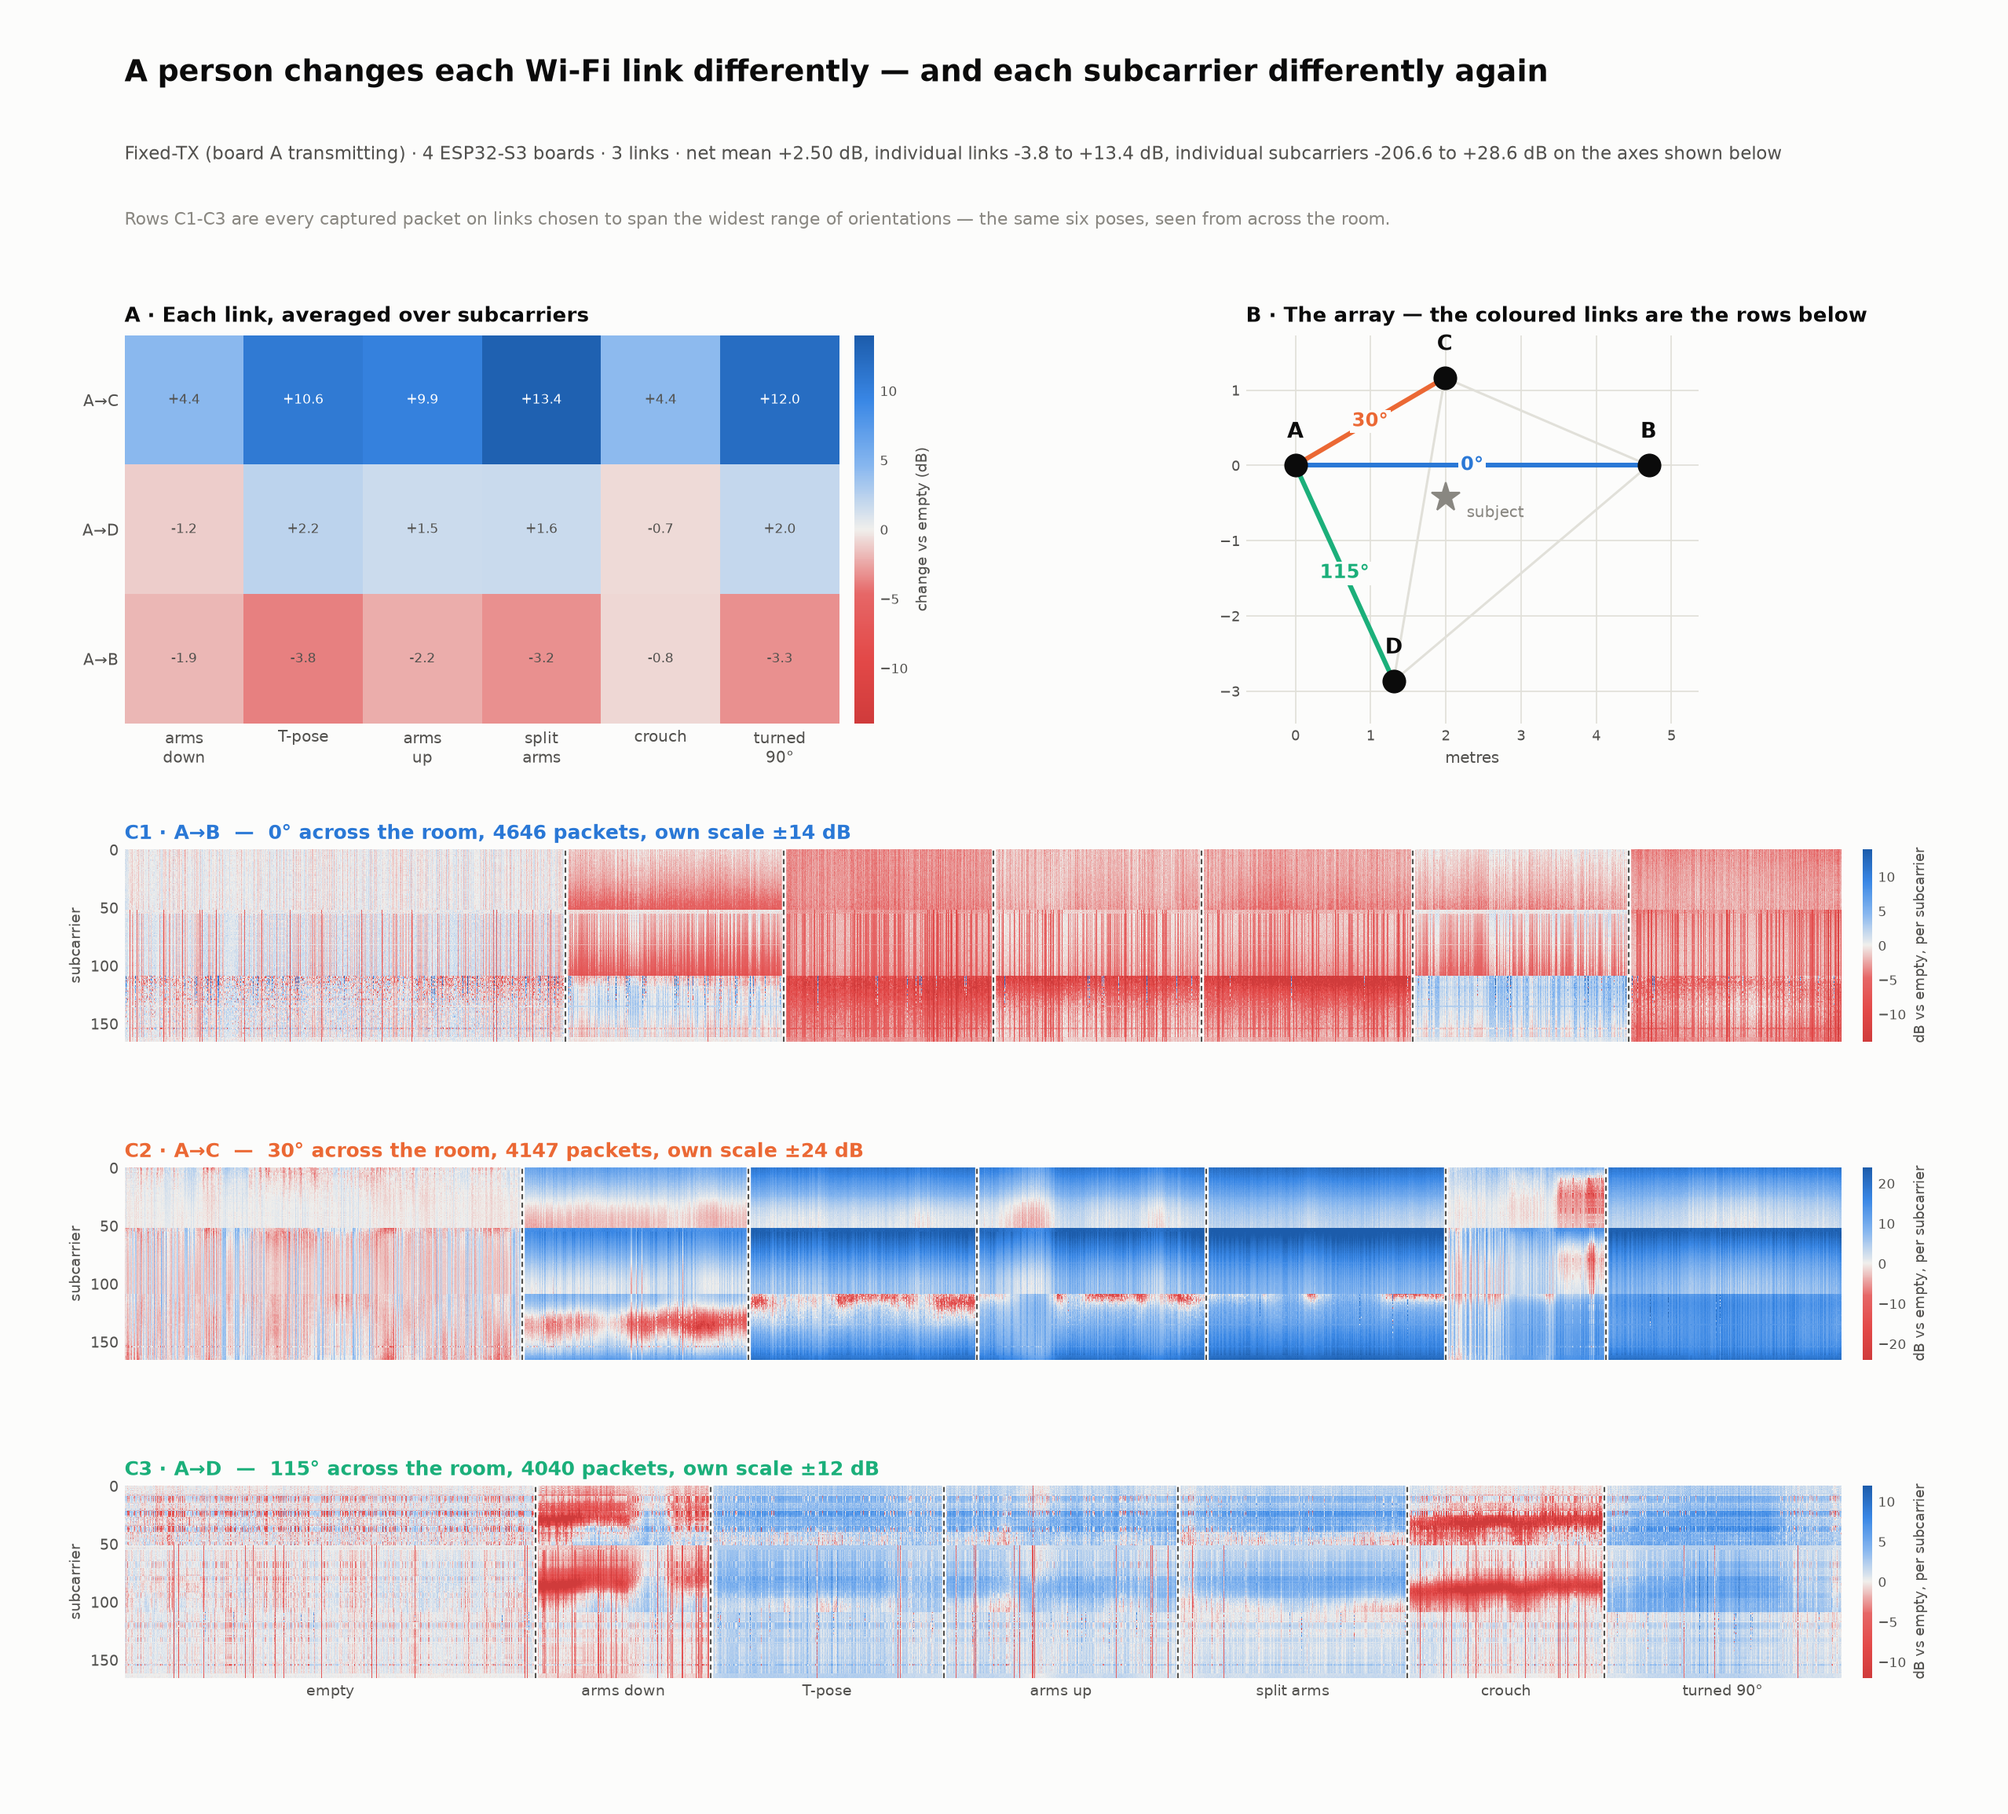
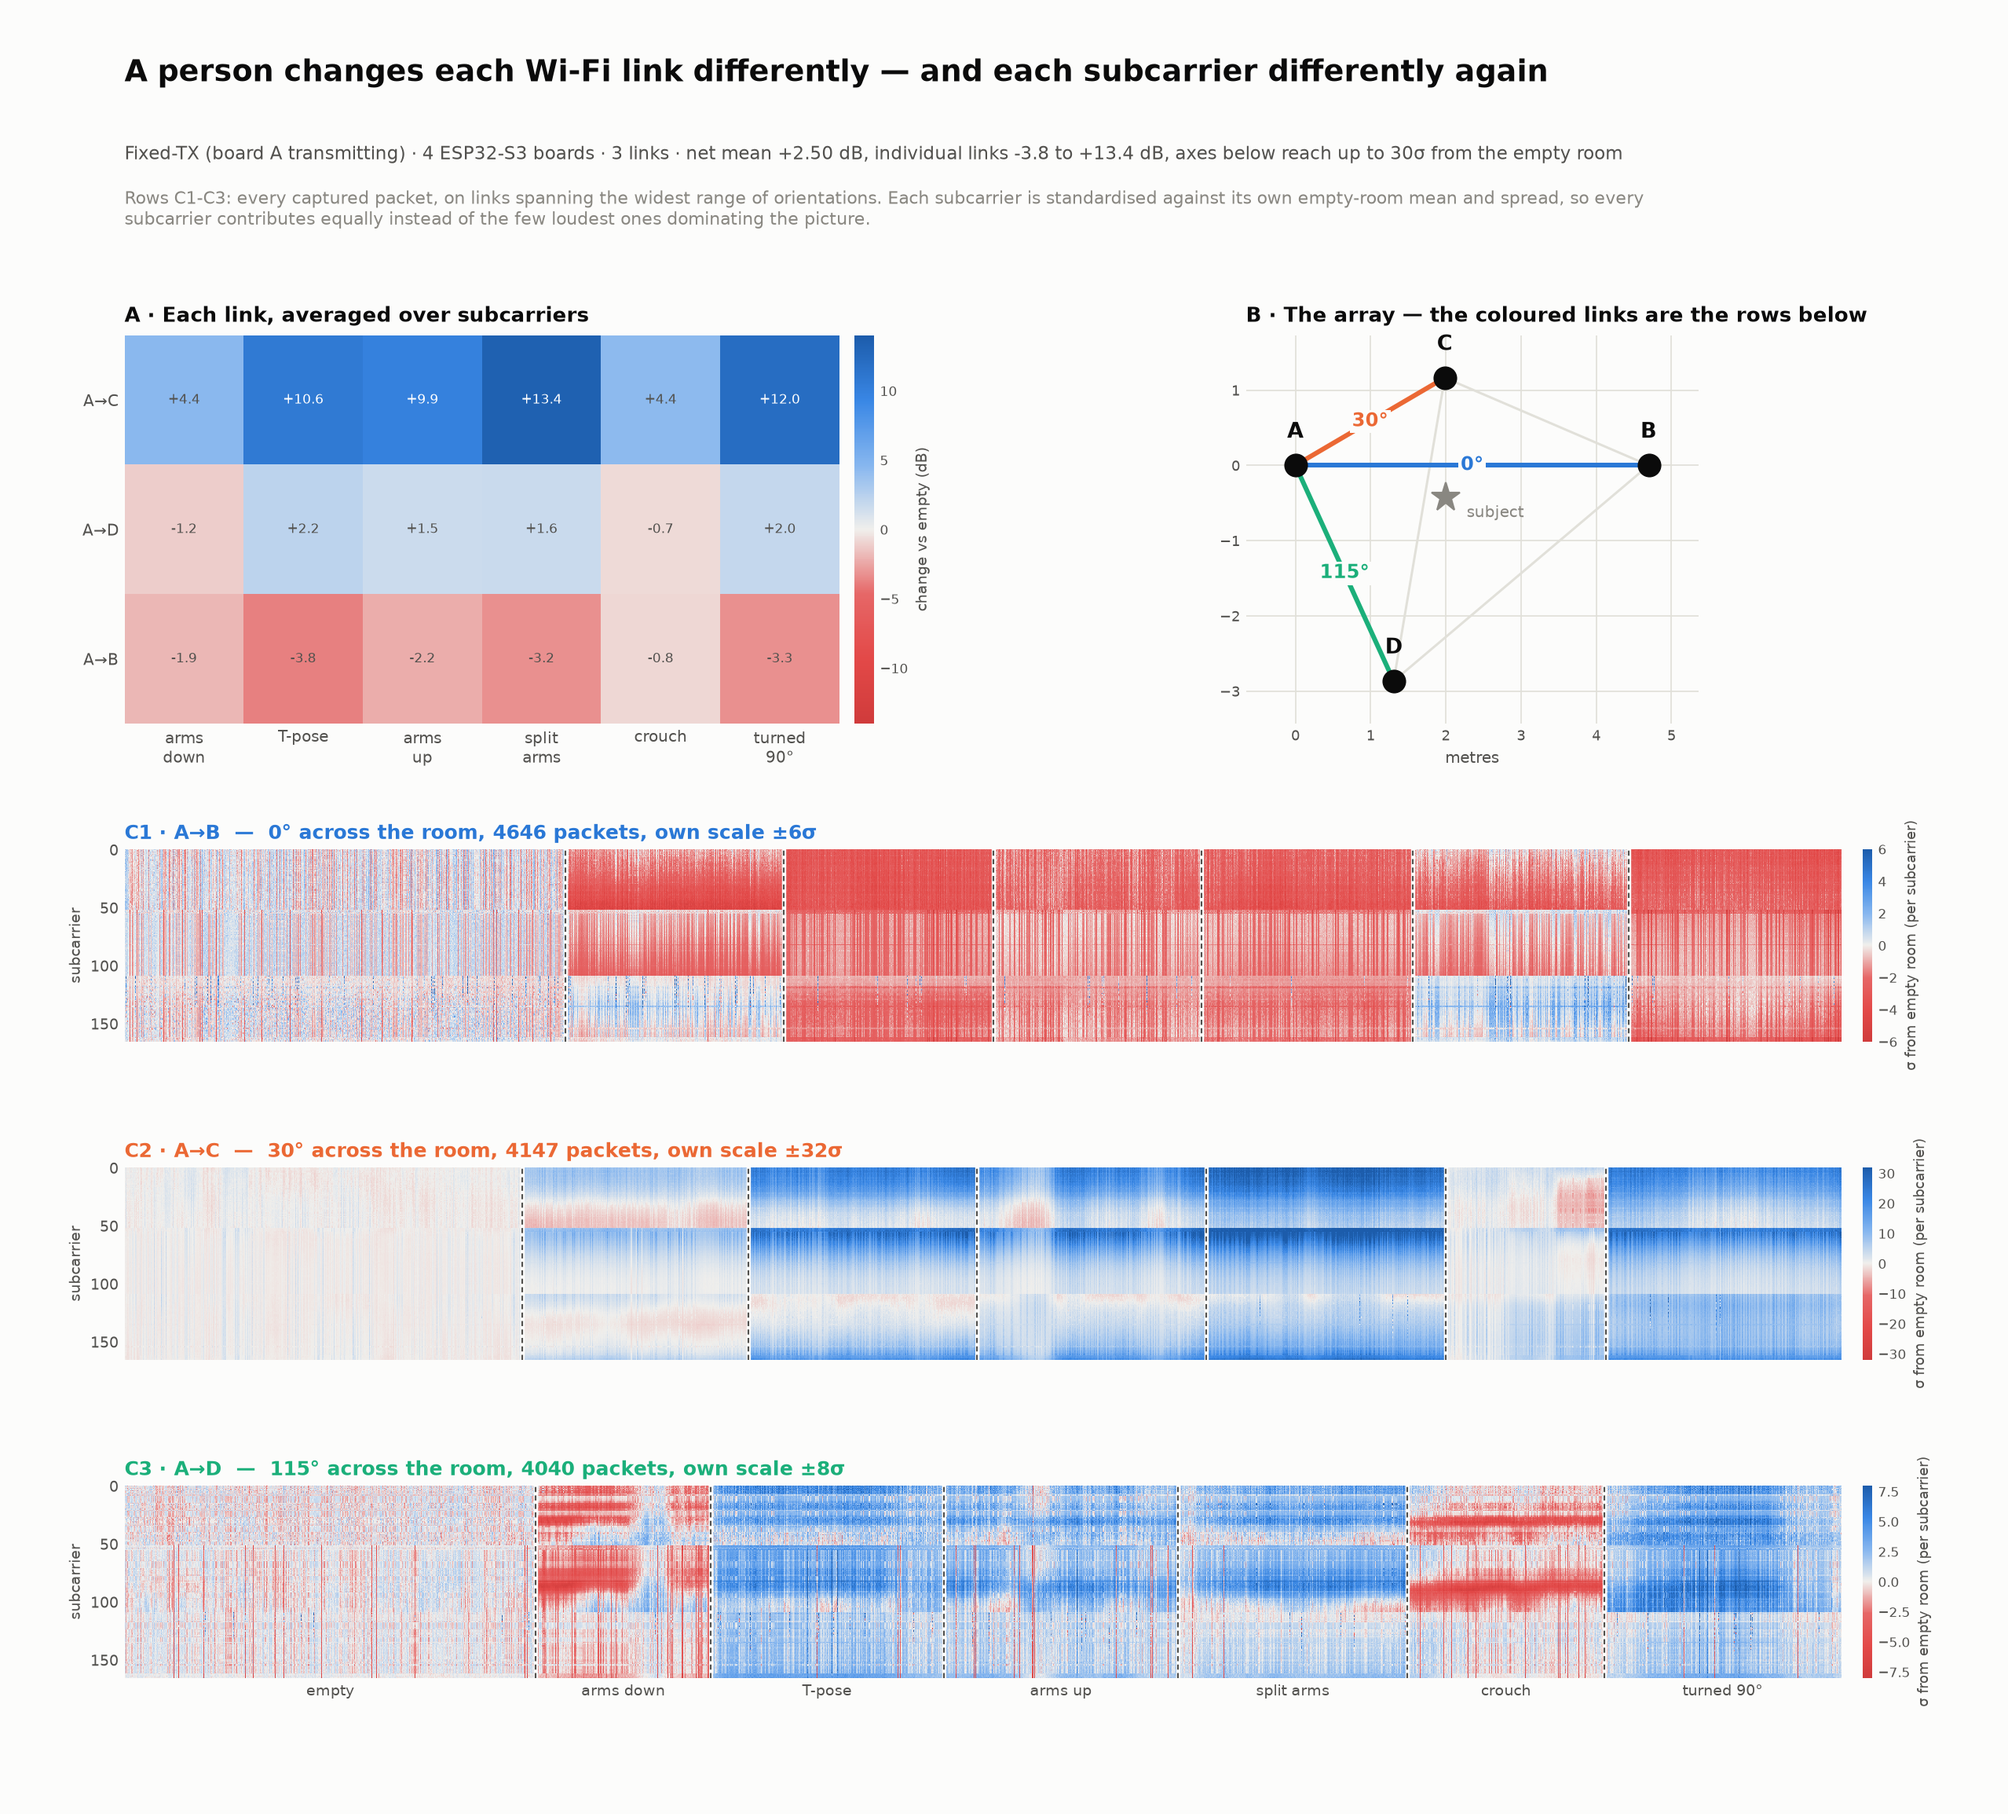
Waterfalls: standardise each subcarrier, not just offset it
The waterfalls divided each subcarrier by its own empty-room mean, which
removes the static offset but leaves each subcarrier's dynamic range intact.
The few loudest subcarriers therefore kept dominating the image as horizontal
bands, and the quiet ones stayed invisible -- the banding was still a property
of the channel rather than of the person.

Each subcarrier is now standardised by its empty-room mean AND spread, so a
cell reads directly as sigma from what an empty room does at that frequency
and every subcarrier contributes on equal footing. The banding disappears, the
empty block reads as uniform noise around zero as it should, and each pose
block shows its own structure. Dead subcarriers are floored so they cannot blow
up the ratio.

diff --git a/esp-csi/examples/get-started/tools/plot_pose_detail.py b/esp-csi/examples/get-started/tools/plot_pose_detail.py
@@ -135,12 +135,21 @@ def main():
     axes_lks = pick_axes(lks_sorted, n=3)
     waterfalls = []
     for lk in axes_lks:
-        v = E[f'{lk}|a'].astype(float).mean(axis=0) > 1.0
-        ref = E[f'{lk}|a'].astype(float)[:, v].mean(axis=0)
+        base = E[f'{lk}|a'].astype(float)
+        v = base.mean(axis=0) > 1.0
+        # Standardise EACH subcarrier against its own empty-room distribution:
+        # subtract that subcarrier's empty mean and divide by its empty spread.
+        # Dividing by the mean alone (a plain dB ratio) removes the offset but
+        # leaves each subcarrier's dynamic range intact, so the few loud
+        # subcarriers keep dominating the image and the quiet ones stay invisible.
+        # In these units every subcarrier is on the same footing and a cell reads
+        # directly as "sigma away from what an empty room does here".
+        mu = base[:, v].mean(axis=0)
+        sd = np.maximum(base[:, v].std(axis=0), 0.5)   # floor: dead subcarriers must not blow up
         segs, bounds, seg_lab = [], [], []
         for tag, d in [('empty', E)] + [(SHORT[i], P[p]) for i, p in enumerate(POSES)]:
             a = d[f'{lk}|a'].astype(float)[:, v]
-            segs.append(20 * np.log10(np.maximum(a, 1e-9) / np.maximum(ref, 1e-9)[None, :]))
+            segs.append((a - mu[None, :]) / sd[None, :])
             bounds.append(sum(len(x) for x in segs))
             seg_lab.append(tag)
         waterfalls.append((np.vstack(segs).T, bounds, seg_lab, name(lk), angle_of(lk)))
@@ -238,14 +247,14 @@ def main():
                        color=INK_2, fontsize=9.5)
         axr.set_ylabel('subcarrier', color=INK_2, fontsize=9)
         axr.set_title(f'C{r + 1} · {lname}  —  {ang:.0f}° across the room, '
-                      f'{W.shape[1]} packets, own scale ±{limR:.0f} dB',
+                      f'{W.shape[1]} packets, own scale ±{limR:.0f}σ',
                       color=CAT[r % len(CAT)], fontsize=11.5, pad=6, loc='left',
                       fontweight='bold')
         axr.tick_params(colors=INK_2, length=0, labelsize=9)
         for sp in axr.spines.values():
             sp.set_visible(False)
         cb3 = fig.colorbar(im3, ax=axr, fraction=0.02, pad=0.012)
-        cb3.set_label('dB vs empty, per subcarrier', color=INK_2, fontsize=8.5)
+        cb3.set_label('σ from empty room (per subcarrier)', color=INK_2, fontsize=8.5)
         cb3.ax.tick_params(colors=INK_2, length=0, labelsize=8)
         cb3.outline.set_visible(False)
 
@@ -255,12 +264,14 @@ def main():
     fig.text(0.062, 0.912,
              f'{args.title} · 4 ESP32-S3 boards · {len(lks)} links · net mean {net:+.2f} dB, '
              f'individual links {np.nanmin(M):+.1f} to {np.nanmax(M):+.1f} dB, '
-             f'individual subcarriers {min(np.nanmin(W) for W, *_ in waterfalls):+.1f} to '
-             f'{max(np.nanmax(W) for W, *_ in waterfalls):+.1f} dB on the axes shown below',
+             f'axes below reach up to '
+             f'{max(max(abs(np.nanpercentile(W, 1)), abs(np.nanpercentile(W, 99))) for W, *_ in waterfalls):.0f}σ '
+             'from the empty room',
              fontsize=10.5, color=INK_2)
     fig.text(0.062, 0.876,
-             'Rows C1-C' + str(len(waterfalls)) + ' are every captured packet on links chosen to span the '
-             'widest range of orientations — the same six poses, seen from across the room.',
+             'Rows C1-C' + str(len(waterfalls)) + ': every captured packet, on links spanning the widest range of '
+             'orientations. Each subcarrier is standardised against its own empty-room mean and spread, so every\n'
+             'subcarrier contributes equally instead of the few loudest ones dominating the picture.',
              fontsize=10, color=MUTED)
 
     fig.savefig(args.out, dpi=155, facecolor=SURFACE)
